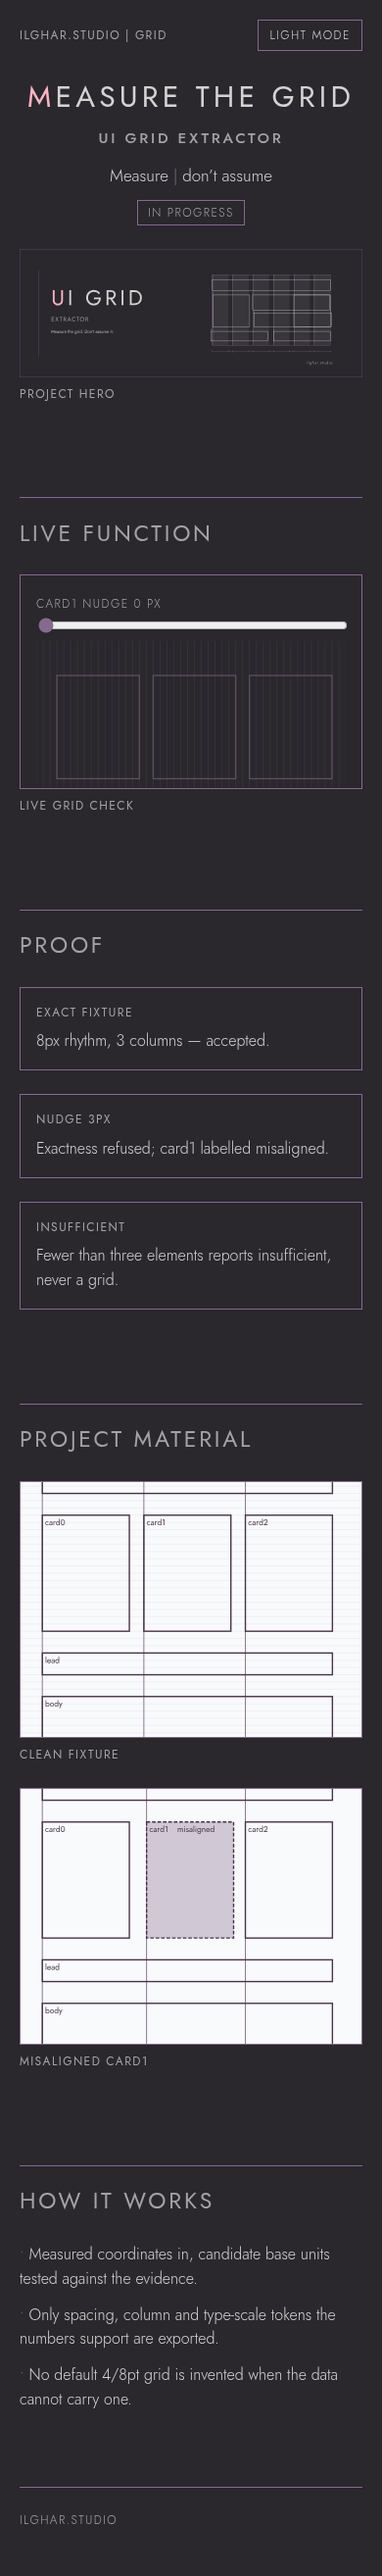
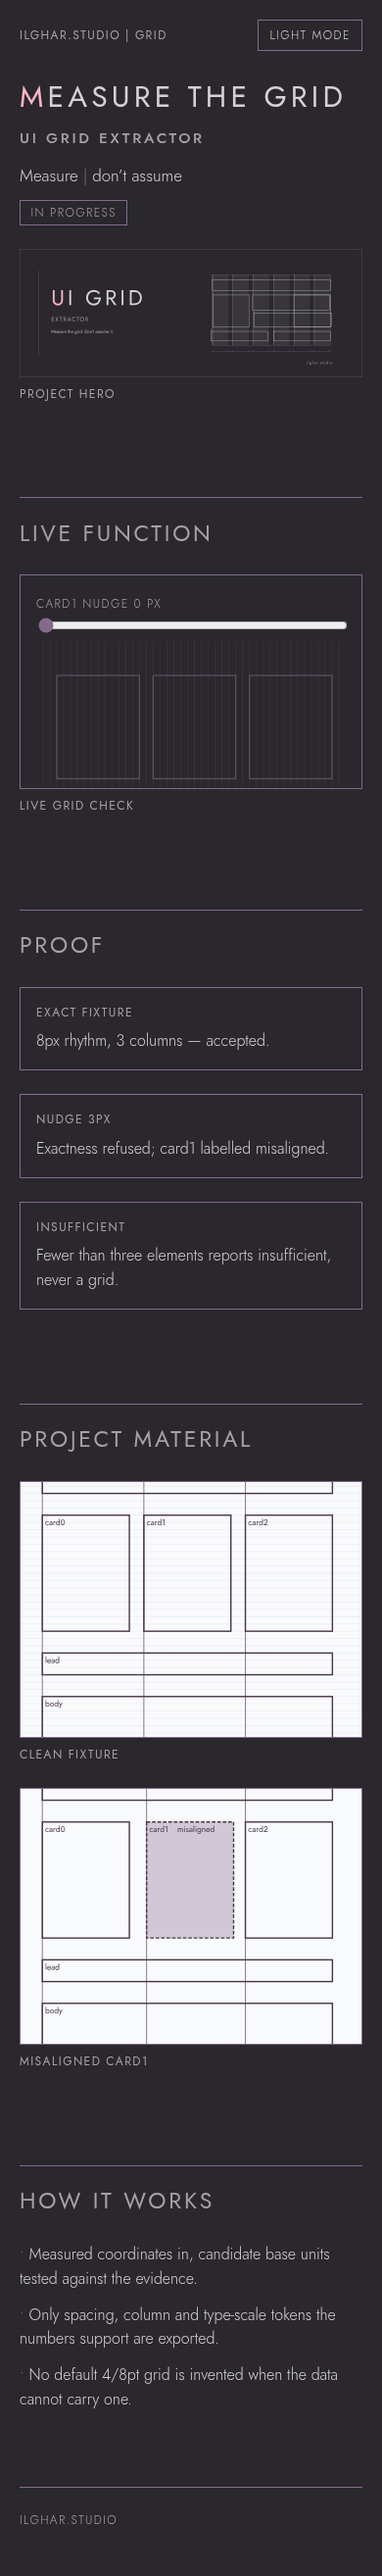
fix(pages): left-align hero header; reshoot 1280/390 light+dark
Match cultural left-aligned .hero. Refresh pages-layout shots after
alignment pass.

Changed region(s): [[0.0615, 0.0312, 0.6462, 0.0936], [0.6769, 0.0312, 0.8923, 0.0624]]

diff --git a/site/pages-shell.css b/site/pages-shell.css
@@ -38,14 +38,14 @@ header.site{display:flex;align-items:center;justify-content:space-between;gap:12
   background:transparent;border:1px solid var(--line);border-radius:0;padding:.35rem .7rem;cursor:pointer;
 }
 .theme-toggle:focus-visible,.ilg-theme-toggle:focus-visible{outline:2px solid var(--line);outline-offset:2px}
-.hero{text-align:center;margin:0 0 24px}
+.hero{text-align:left;margin:0 0 24px}
 .hero .name,.hero h1{
   font-size:40px;font-weight:400;letter-spacing:.14em;text-transform:uppercase;color:var(--head);margin:0;
 }
 @media (max-width:600px){.hero .name,.hero h1{font-size:30px}}
 .hero .first,.hero .initial{color:var(--pink)}
 .hero .title{display:block;margin-top:8px;font-weight:500;font-size:.95rem;letter-spacing:.18em;text-transform:uppercase;color:var(--label)}
-.hero .sub{font-size:17px;font-weight:300;color:var(--fg);margin:12px auto 0;max-width:64ch}
+.hero .sub{font-size:17px;font-weight:300;color:var(--fg);margin:12px 0 0;max-width:64ch}
 .hero .sub span+span::before{content:" | ";color:var(--line)}
 .badge,.status{
   display:inline-block;margin-top:12px;border:1px solid var(--line);padding:.15rem .65rem;
